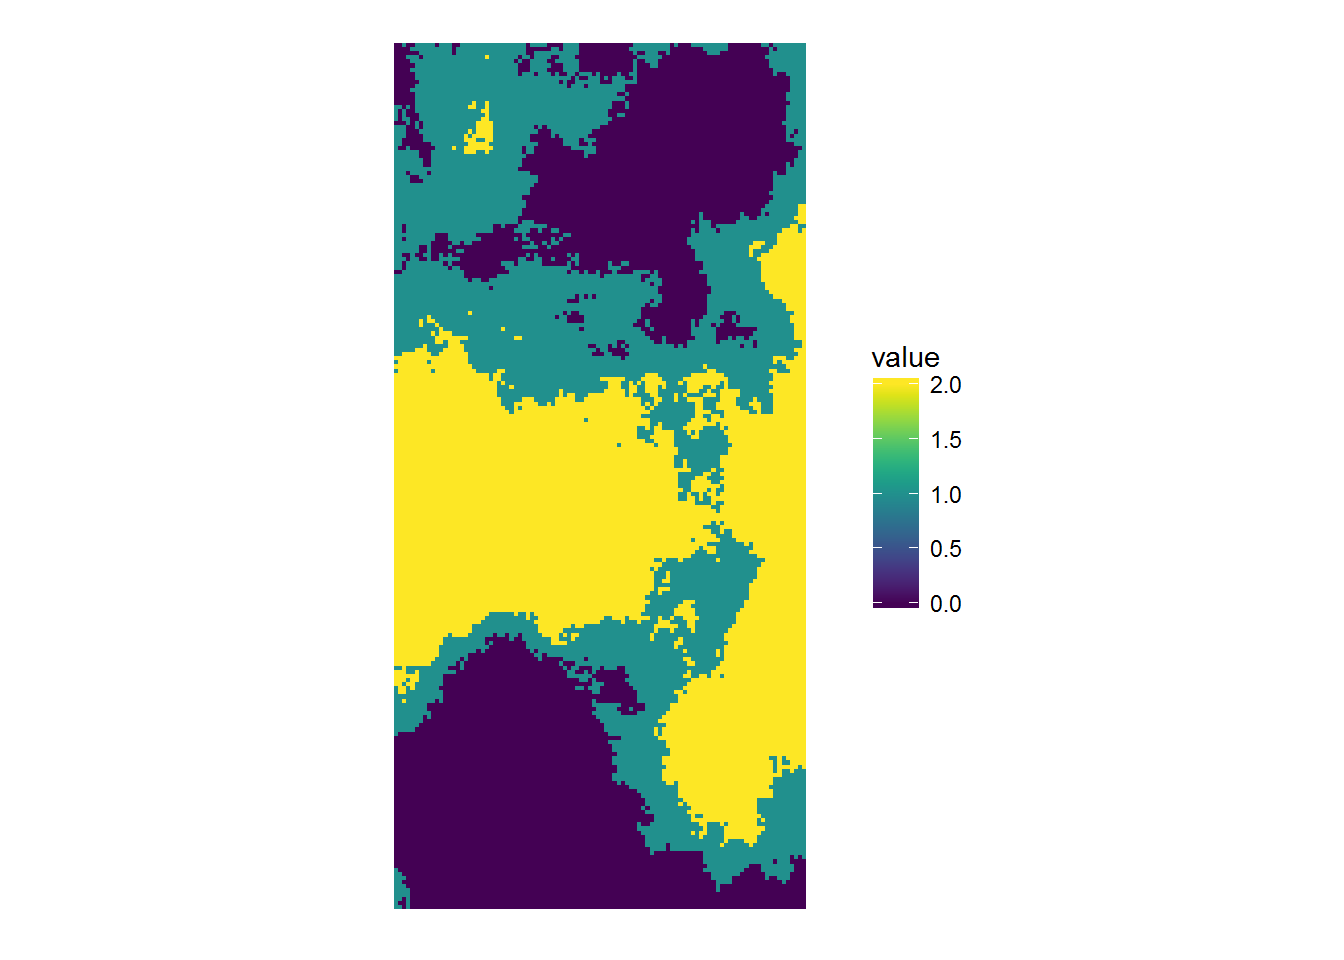
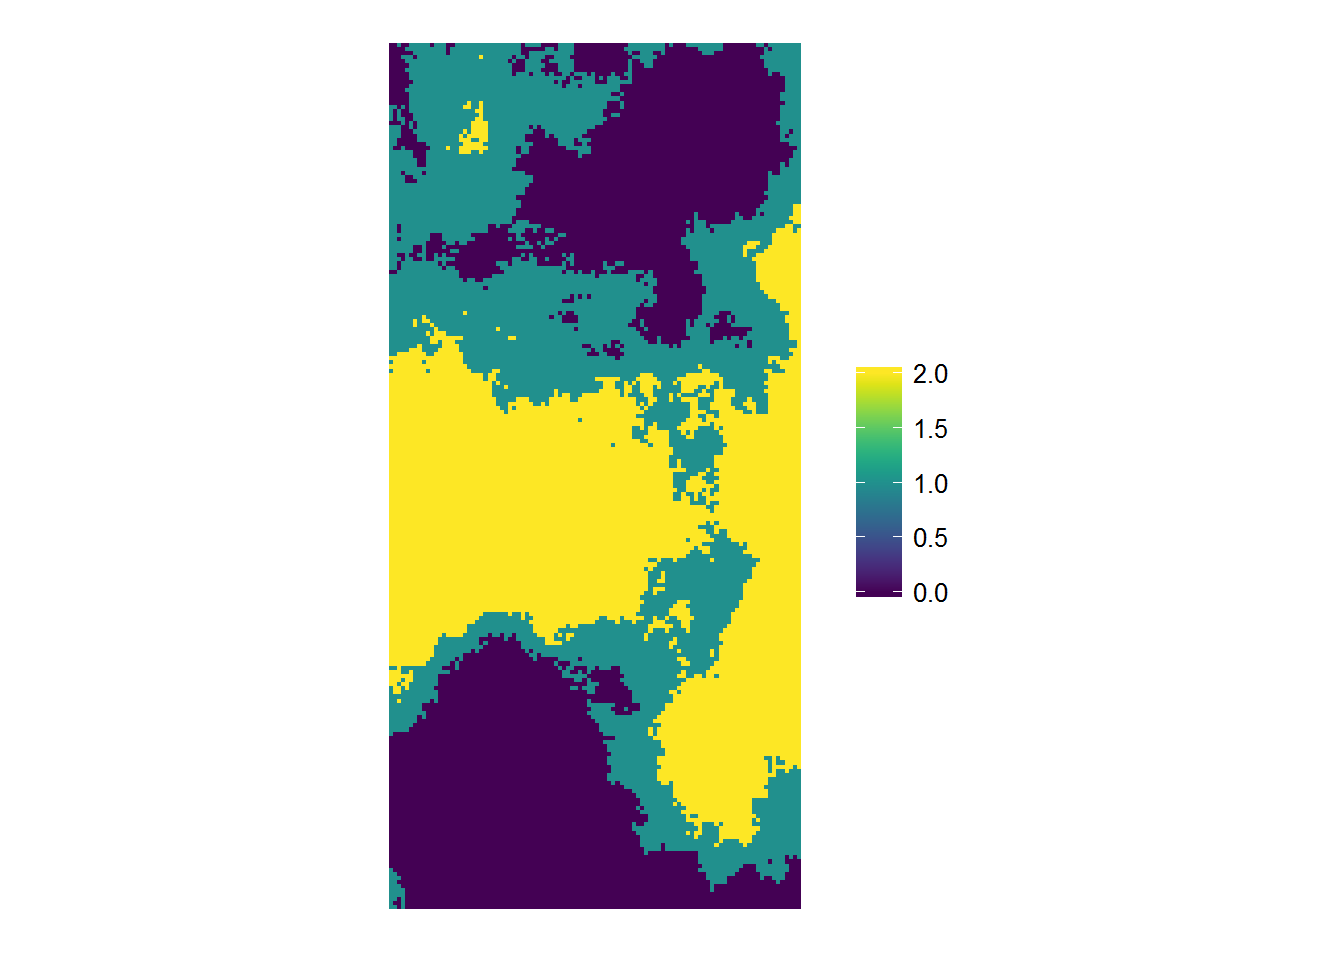
deleted legend title + small corrections

diff --git a/nlmpy_tut/nlmpy.html b/nlmpy_tut/nlmpy.html
@@ -11,7 +11,7 @@
 <meta name="viewport" content="width=device-width, initial-scale=1">
 
 
-<meta name="date" content="2017-01-18" />
+<meta name="date" content="2017-01-20" />
 
 <title>Creating neutral landscapes for ecological models with NLMPY</title>
 
@@ -66,7 +66,7 @@ code > span.in { color: #008000; } /* Information */
 <h3 class="subtitle">An instruction to use NLMPY from within R</h3>
 <h4 class="author">Marco Sciaini, <a href="spatialrecology.org" class="uri">spatialrecology.org</a></h4>
 <address class="author_afil">
-Department of Ecosystem Modelling, University of Göttingen<br><h4 class="date"><em>2017-01-18</em></h4>
+Department of Ecosystem Modelling, University of Göttingen<br><h4 class="date"><em>2017-01-20</em></h4>
 
 
 
@@ -173,14 +173,13 @@ init_landscape &lt;-<span class="st"> '</span>
 <span class="st">nlmpy.exportASCIIGrid(&quot;nlmmpddistclass.asc&quot;, nlmmpddistclass)</span>
 <span class="st">'</span>
 
-
 <span class="co"># execute python code to create neutral landscapes ----</span>
 PythonInR::<span class="kw">pyExec</span>(<span class="dt">code =</span> init_landscape)</code></pre></div>
 <p>The code will generate a file called <code>nlmmpddistclass.asc</code> in the working directory of python, which we can reimport in R (for example with the the raster package).</p>
 </div>
 <div id="neutral-landscape-visualization" class="section level1">
 <h1>Neutral landscape visualization</h1>
-<p>To check the result of our python code, we import it as raster and plot it with the <a href="https://oscarperpinan.github.io/rastervis/"><code>rasterVis</code></a> package. <code>rasterVis</code> allows to use the ggplot syntax to plot raster objects.</p>
+<p>To check the result of our python code, we import it as raster and plot it using the <a href="https://oscarperpinan.github.io/rastervis/"><code>rasterVis</code></a> package. <code>rasterVis</code> allows to use the ggplot syntax to plot raster objects.</p>
 <div class="sourceCode"><pre class="sourceCode r"><code class="sourceCode r"><span class="co"># load packages ----</span>
 <span class="kw">library</span>(ggplot2)
 <span class="kw">library</span>(rasterVis)
@@ -192,10 +191,10 @@ mpd.raster &lt;-<span class="st"> </span><span class="kw">raster</span>(<span cl
 
 <span class="co"># plot and check raster from nlmpy ----</span>
 <span class="kw">gplot</span>(mpd.raster) +<span class="st"> </span><span class="kw">geom_tile</span>(<span class="kw">aes</span>(<span class="dt">fill =</span> value)) +
-<span class="st">                                          </span><span class="kw">coord_equal</span>() +
-<span class="st">                                          </span><span class="kw">scale_fill_viridis</span>() +
-<span class="st">                                          </span><span class="kw">theme_void</span>() </code></pre></div>
[1 lines of base64/hex data omitted]
+<span class="st">                        </span><span class="kw">coord_equal</span>() +
+<span class="st">                        </span><span class="kw">scale_fill_viridis</span>(<span class="st">&quot;&quot;</span>) +
+<span class="st">                        </span><span class="kw">theme_void</span>() </code></pre></div>
[1 lines of base64/hex data omitted]
 </div>
 
 
